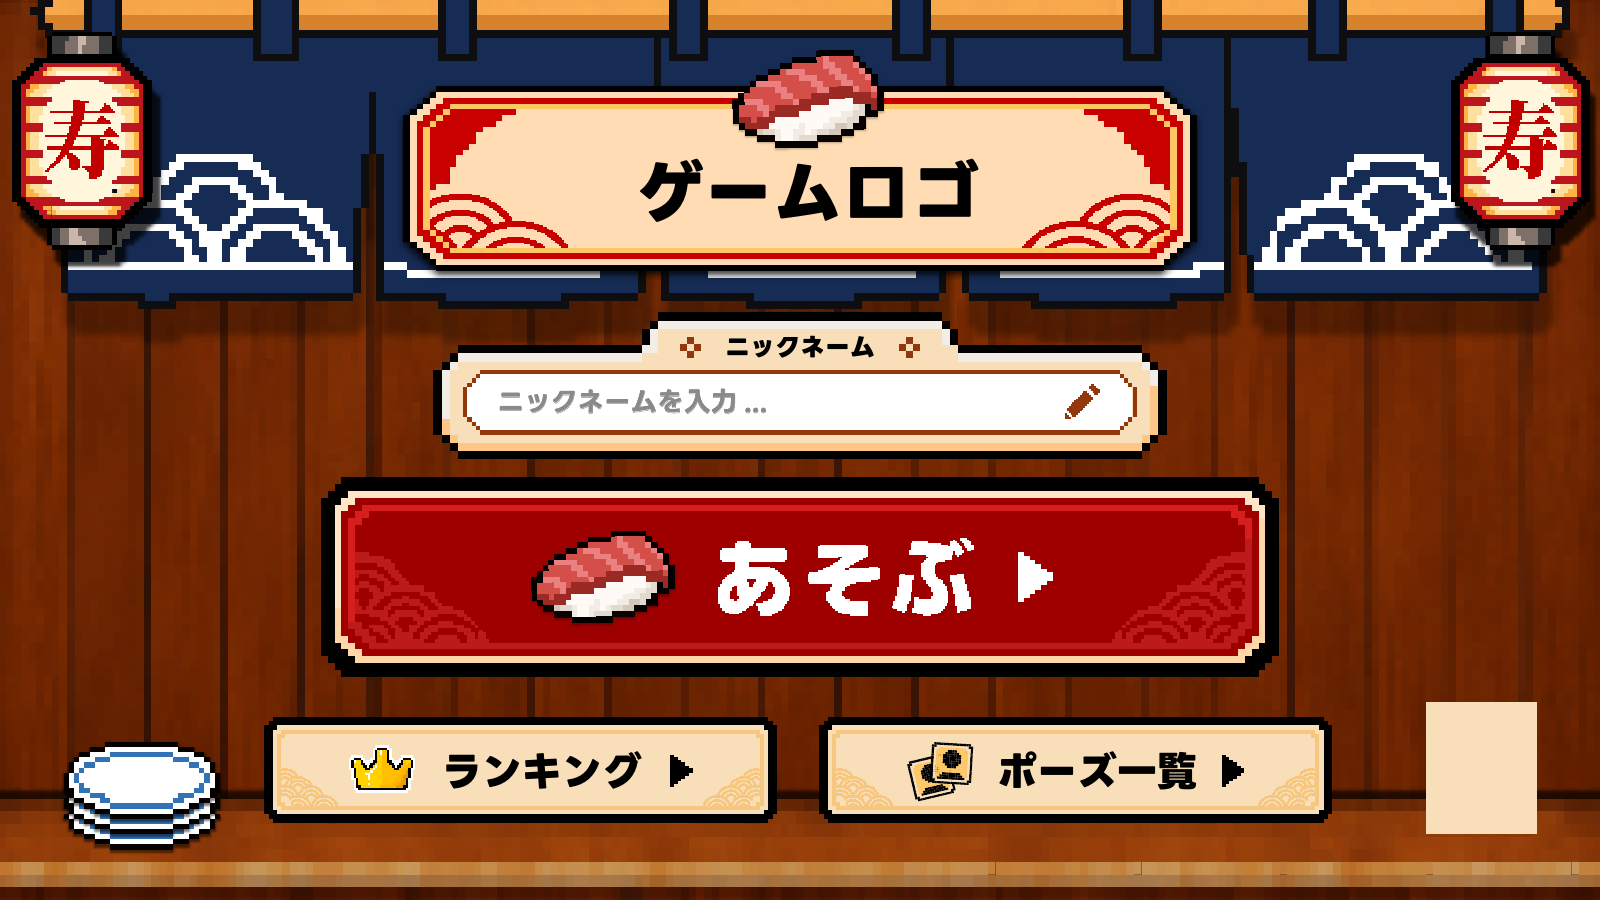
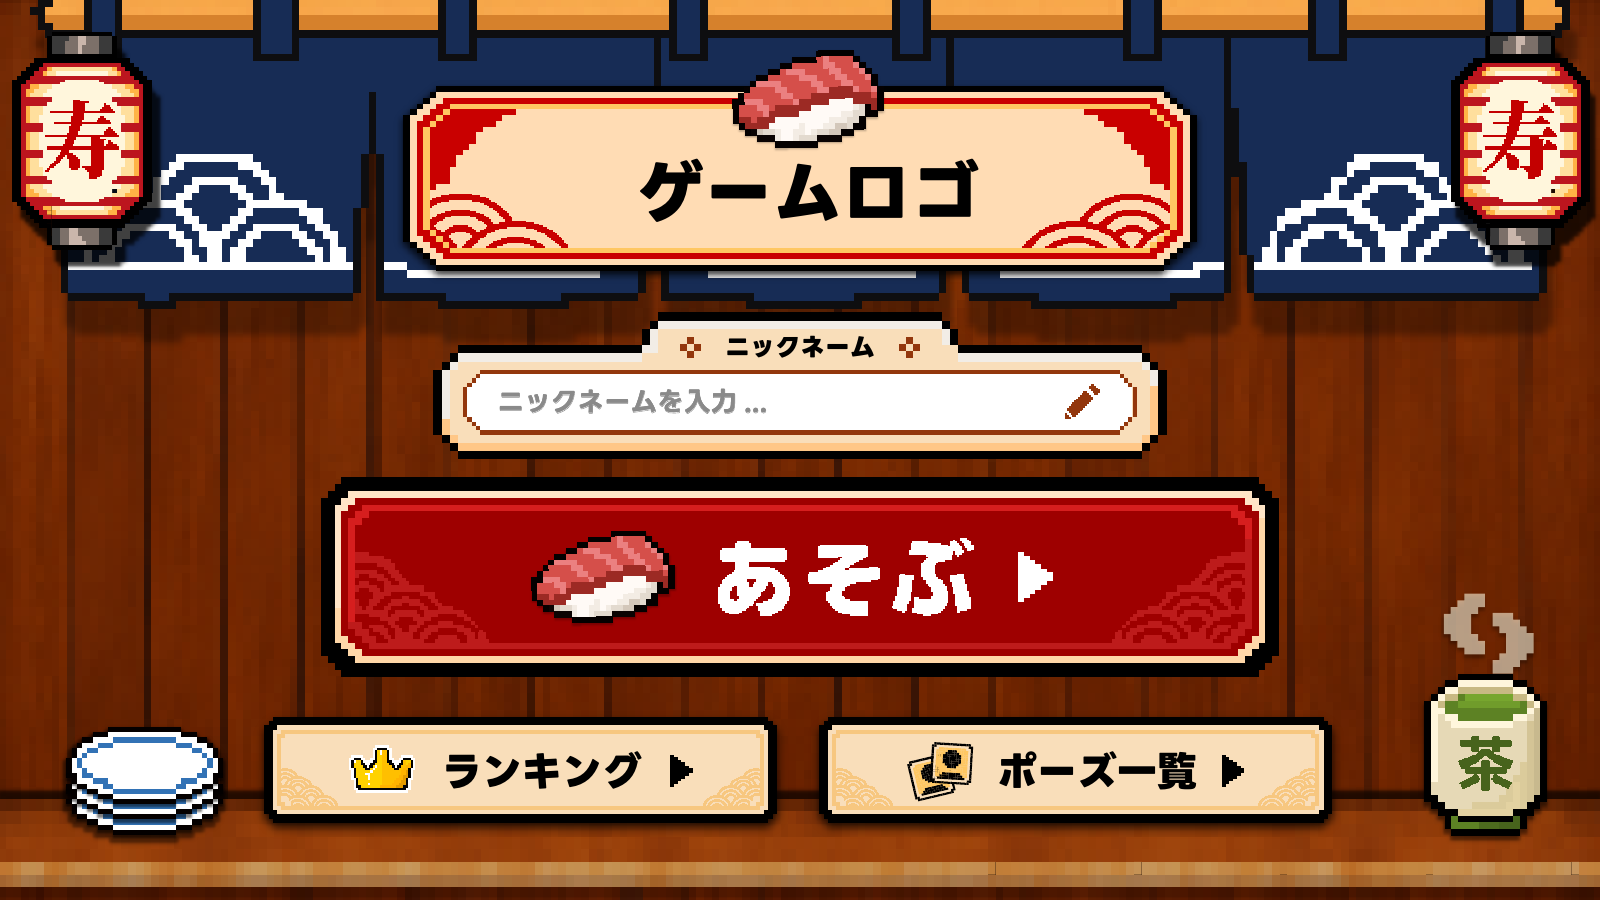
feat: update menu artwork and tea demo entry

Changed region(s): [[0.0312, 0.8089, 0.8438, 0.9644], [0.875, 0.6533, 0.9688, 0.9333]]

diff --git a/components/GameCanvas.tsx b/components/GameCanvas.tsx
@@ -213,8 +213,6 @@ function drawMenu(ctx: CanvasRenderingContext2D, reference: SfUiAssets | undefin
     ctx.save(); ctx.imageSmoothingEnabled = false;
     ctx.drawImage(reference!.menuReference!, 0, 0, width, GAME_HEIGHT);
     ctx.restore();
-    // The supplied lower-right tile is intentionally blank; retain it as the small demo route.
-    text(ctx, "デモ", rects.menuPractice.x + rects.menuPractice.width / 2, rects.menuPractice.y + rects.menuPractice.height / 2, 17, "#5d3419", "center", pixelFont);
   } else {
     // Recompose the supplied artwork into a vertical menu instead of shrinking its controls.
     drawWoodTexture(ctx, reference, width, PORTRAIT_HEIGHT, true);
@@ -226,7 +224,7 @@ function drawMenu(ctx: CanvasRenderingContext2D, reference: SfUiAssets | undefin
       ctx.drawImage(image, 320, 478, 960, 198, 37, 267, 526, 108);
       ctx.drawImage(image, 264, 718, 514, 106, 60, 405, 480, 99);
       ctx.drawImage(image, 818, 718, 516, 106, 60, 520, 480, 99);
-      ctx.drawImage(image, 1425, 703, 115, 132, 410, 640, 130, 96);
+      drawImage(ctx, reference?.menuTea, rects.menuPractice);
       ctx.restore();
     } else {
       paper(ctx, { x:42, y:163, width:516, height:108 }, "#fde0b4");
@@ -234,9 +232,7 @@ function drawMenu(ctx: CanvasRenderingContext2D, reference: SfUiAssets | undefin
       menuPanel(ctx, rects.menuCamera, "あそぶ", true);
       menuPanel(ctx, rects.menuRanking, "ランキング");
       menuPanel(ctx, rects.menuPoseList, "ポーズ一覧");
-      menuPanel(ctx, rects.menuPractice, "デモ");
     }
-    text(ctx, "デモ", rects.menuPractice.x + rects.menuPractice.width / 2, rects.menuPractice.y + rects.menuPractice.height / 2, 17, "#5d3419", "center", pixelFont);
   }
   const nameError = props.nameError?.replace("ランキング名", "ニックネーム");
   if (nameError) text(ctx, nameError, width / 2, rects.name.y + rects.name.height + (portrait ? 28 : 34), portrait ? 16 : 15, "#ffb7a8", "center", pixelFont);
@@ -432,9 +428,9 @@ export function GameCanvas(props: Props) {
     media.addEventListener("change", onMotionChange); window.addEventListener("resize", resize); document.addEventListener("visibilitychange", onVisibility); applyLifecycle(); host.dataset.rendererStatus = "ready"; host.dataset.rendererMode = "2d"; setStatus("ready"); resize();
     return () => { observer?.disconnect(); intersection?.disconnect(); media.removeEventListener("change", onMotionChange); window.removeEventListener("resize", resize); document.removeEventListener("visibilitychange", onVisibility); driver.dispose(); if (painterRef.current === driver) painterRef.current = undefined; };
   }, [layoutMode]);
-  const overlay = (id: string, rect: Rect, value: string, onClick: () => void, disabled = false, current = false) => <button key={id} className="arcade-hit" style={cssRect(rect, viewport)} aria-label={value} aria-current={current ? "page" : undefined} disabled={disabled} onClick={onClick} onPointerEnter={() => setHover(id)} onPointerLeave={() => setHover("")} onFocus={() => setHover(id)} onBlur={() => setHover("")}><span className="sr-only">{value}</span></button>;
+  const overlay = (id: string, rect: Rect, value: string, onClick: () => void, disabled = false, current = false, title?: string) => <button key={id} className="arcade-hit" style={cssRect(rect, viewport)} aria-label={value} aria-current={current ? "page" : undefined} disabled={disabled} title={title} onClick={onClick} onPointerEnter={() => setHover(id)} onPointerLeave={() => setHover("")} onFocus={() => setHover(id)} onBlur={() => setHover("")}><span className="sr-only">{value}</span></button>;
   const controls = useMemo(() => {
-    if (currentPhase === "menu") return <>{overlay("camera", activeRects.menuCamera, "あそぶ", props.onOpenCamera, !props.playerName)}{overlay("demo", activeRects.menuPractice, "デモを見る。自動入力、ランキング対象外", props.onPractice)}{overlay("ranking", activeRects.menuRanking, "ランキング", props.onRankings)}{overlay("poseList", activeRects.menuPoseList, "ポーズ一覧を開く", props.onOpenPoseList)}</>;
+    if (currentPhase === "menu") return <>{overlay("camera", activeRects.menuCamera, "あそぶ", props.onOpenCamera, !props.playerName)}{overlay("demo", activeRects.menuPractice, "お茶をいれて自動デモを見る。自動入力、ランキング対象外", props.onPractice, false, false, "お茶をいれて自動デモを見る")}{overlay("ranking", activeRects.menuRanking, "ランキング", props.onRankings)}{overlay("poseList", activeRects.menuPoseList, "ポーズ一覧を開く", props.onOpenPoseList)}</>;
     if (currentPhase === "calibration") { const cta = resolveCameraCta({ simulation:props.simulation, calibrated:props.cameraCalibrated, starting:props.cameraStarting, hasName:!!props.playerName }); return <>{overlay("start", activeRects.calibrationStart, props.simulation ? "自動デモを開始" : cta.label, cta.action === "start-camera" ? props.onStartCamera : props.onStart, cta.disabled)}{overlay("back", activeRects.calibrationBack, "メニューへ", props.onBackMenu)}</>; }
     if (currentPhase === "play") return props.session.status === "playing" ? overlay("skip", activeRects.gameSkip, "このおすしを流す。コンボは0になります", props.onSkip) : null;
     if (currentPhase === "result") return <>{props.rankingEligible && overlay("register", activeRects.resultRegister, "ランキングに登録する", props.onRegister, props.submitting)}{overlay("retry", activeRects.resultRetry, "もう一度にぎる", props.onRetry)}{overlay("menu", activeRects.resultMenu, "メニューへ", props.onBackMenu)}</>;

diff --git a/lib/sf-ui-assets.ts b/lib/sf-ui-assets.ts
@@ -1,9 +1,11 @@
 /** Presentation-only crops from the supplied Illustrator reference. */
-export type SfUiAssets = Partial<Record<"menuReference" | "topWood" | "counterWood" | "lanternLeft" | "lanternRight" | "conveyor" | "wave" | "hourglass" | "plateStack" | "poseGuide" | "poseCamera" | "rankingScene" | "rankingTitle" | "rankingBack" | "rankingRefresh" | "rankingPagerNormal" | "rankingPagerSelected" | "rankingPagerPrevious" | "rankingPagerNext" | "rankingRankBadge" | "rankingCrownOne" | "rankingCrownTwo" | "rankingCrownThree", HTMLImageElement>>;
+export type SfUiAssets = Partial<Record<"menuReference" | "menuTea" | "topWood" | "counterWood" | "lanternLeft" | "lanternRight" | "conveyor" | "wave" | "hourglass" | "plateStack" | "poseGuide" | "poseCamera" | "rankingScene" | "rankingTitle" | "rankingBack" | "rankingRefresh" | "rankingPagerNormal" | "rankingPagerSelected" | "rankingPagerPrevious" | "rankingPagerNext" | "rankingRankBadge" | "rankingCrownOne" | "rankingCrownTwo" | "rankingCrownThree", HTMLImageElement>>;
 
 const sources = {
   // Whole supplied menu artwork, with native interactive controls overlaid by GameCanvas.
   menuReference: "/assets/sf-ui/menu-reference.png",
+  // Transparent source export lets the portrait layout place the complete tea pot without a wood crop.
+  menuTea: "/assets/sf-ui/menu-tea.png",
   topWood: "/assets/sf-ui/top-wood.png", counterWood: "/assets/sf-ui/counter-wood.png",
   lanternLeft: "/assets/sf-ui/lantern-left.png", lanternRight: "/assets/sf-ui/lantern-right.png",
   conveyor: "/assets/sf-ui/conveyor-strip.png", wave: "/assets/sf-ui/wave-corner.png",

diff --git a/lib/game-canvas-layout.ts b/lib/game-canvas-layout.ts
@@ -49,7 +49,8 @@ export const gameRects = {
   // Mask only the baked placeholder text; the pencil and ornate border stay visible.
   name: { x: 357, y: 284, width: 421, height: 36 },
   menuCamera: { x: 250, y: 371, width: 700, height: 136 },
-  menuPractice: { x: 1065, y: 527, width: 90, height: 95 },
+  // The supplied tea pot is the demo entry; include the steam and cup in its hit area.
+  menuPractice: { x: 1060, y: 440, width: 110, height: 200 },
   menuRanking: { x: 202, y: 541, width: 380, height: 77 },
   menuPoseList: { x: 618, y: 541, width: 380, height: 77 },
   calibrationStart: { x: 330, y: 490, width: 330, height: 48 },
@@ -104,7 +105,8 @@ export const portraitGameRects = {
   ...gameRects,
   name: { x: 65, y: 199, width: 406, height: 35 },
   menuCamera: { x: 37, y: 267, width: 526, height: 108 },
-  menuPractice: { x: 410, y: 640, width: 130, height: 96 },
+  // Preserve the tea pot's 161×304 source aspect in the portrait free area.
+  menuPractice: { x: 410, y: 640, width: 130, height: 245 },
   menuRanking: { x: 60, y: 405, width: 480, height: 99 },
   menuPoseList: { x: 60, y: 520, width: 480, height: 99 },
   camera: { x: 30, y: 190, width: 540, height: 290 },

diff --git a/lib/game-canvas-layout.test.ts b/lib/game-canvas-layout.test.ts
@@ -127,6 +127,17 @@ describe("game canvas layout", () => {
     expect(rectsOverlap(gameRects.menuRanking, gameRects.menuPoseList)).toBe(false);
   });
 
+  it("maps the supplied tea pot to the demo action without covering primary menu controls", () => {
+    expect(gameRects.menuPractice).toEqual({ x:1060, y:440, width:110, height:200 });
+    expect(portraitGameRects.menuPractice).toEqual({ x:410, y:640, width:130, height:245 });
+    for (const [tea, primary] of [[gameRects.menuPractice, gameRects.menuPoseList], [portraitGameRects.menuPractice, portraitGameRects.menuPoseList]] as const) {
+      expect(rectsOverlap(tea, primary)).toBe(false);
+    }
+    const portraitTea = cssRect(portraitGameRects.menuPractice, fitGameViewport(390, 844));
+    expect(portraitTea.width).toBeGreaterThanOrEqual(44);
+    expect(portraitTea.height).toBeGreaterThanOrEqual(44);
+  });
+
   it("uses one stable viewport-width predicate at the responsive boundaries", () => {
     expect(gameLayoutModeForWidth(390)).toBe("portrait");
     expect(gameLayoutModeForWidth(560)).toBe("portrait");

diff --git a/public/assets/sf-ui/README.md b/public/assets/sf-ui/README.md
@@ -4,6 +4,8 @@ The gameplay PNGs were cropped from `/Users/tah/Downloads/2026_SF_game-ui.ai`; r
 
 | Asset | Dimensions | Intended use |
 | --- | ---: | --- |
+| `menu-reference.png` | 1600x900 | Supplied desktop menu scene; native controls are overlaid for input and actions. |
+| `menu-tea.png` | 161x304 | Transparent source tea-pot export used as the portrait demo action. |
 | `top-wood.png` | 1920x210 | Dark wood header texture behind the HUD |
 | `counter-wood.png` | 1920x380 | Vertical wood counter texture below the conveyor |
 | `lantern-left.png` / `lantern-right.png` | 150x185 | Fixed side lantern decorations; the 寿 character is static reference art |
